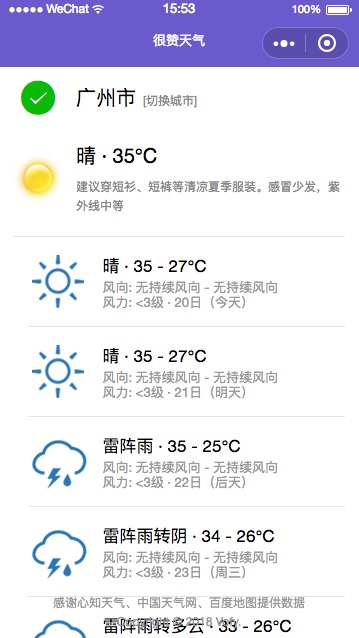
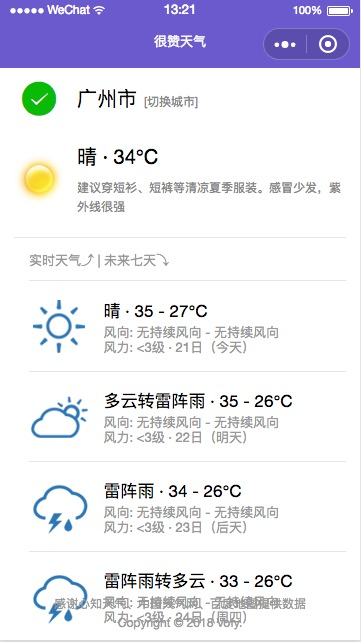
update something

diff --git a/pages/index/index.js b/pages/index/index.js
@@ -172,8 +172,6 @@ Page({
 
               //更新视图
               this.setData(this.data)
-              wx.hideLoading();
-              wx.hideNavigationBarLoading()
             }
           })
         } else {
@@ -182,11 +180,13 @@ Page({
             showCancel: false
           })
           wx.hideLoading();
-          this.getWeatherMsg3('广州市');
+          wx.hideNavigationBarLoading();
+          this.getCurrentWeather('广州市');
         }
       },
       fail: () => {
         wx.hideLoading();
+        wx.hideNavigationBarLoading();
         wx.showModal({
           content: "出错啦",
           showCancel: false,
@@ -222,6 +222,8 @@ Page({
         this.setData({
           forecast: res.data.data
         })
+        wx.hideLoading();
+        wx.hideNavigationBarLoading();
       }
     })
 
